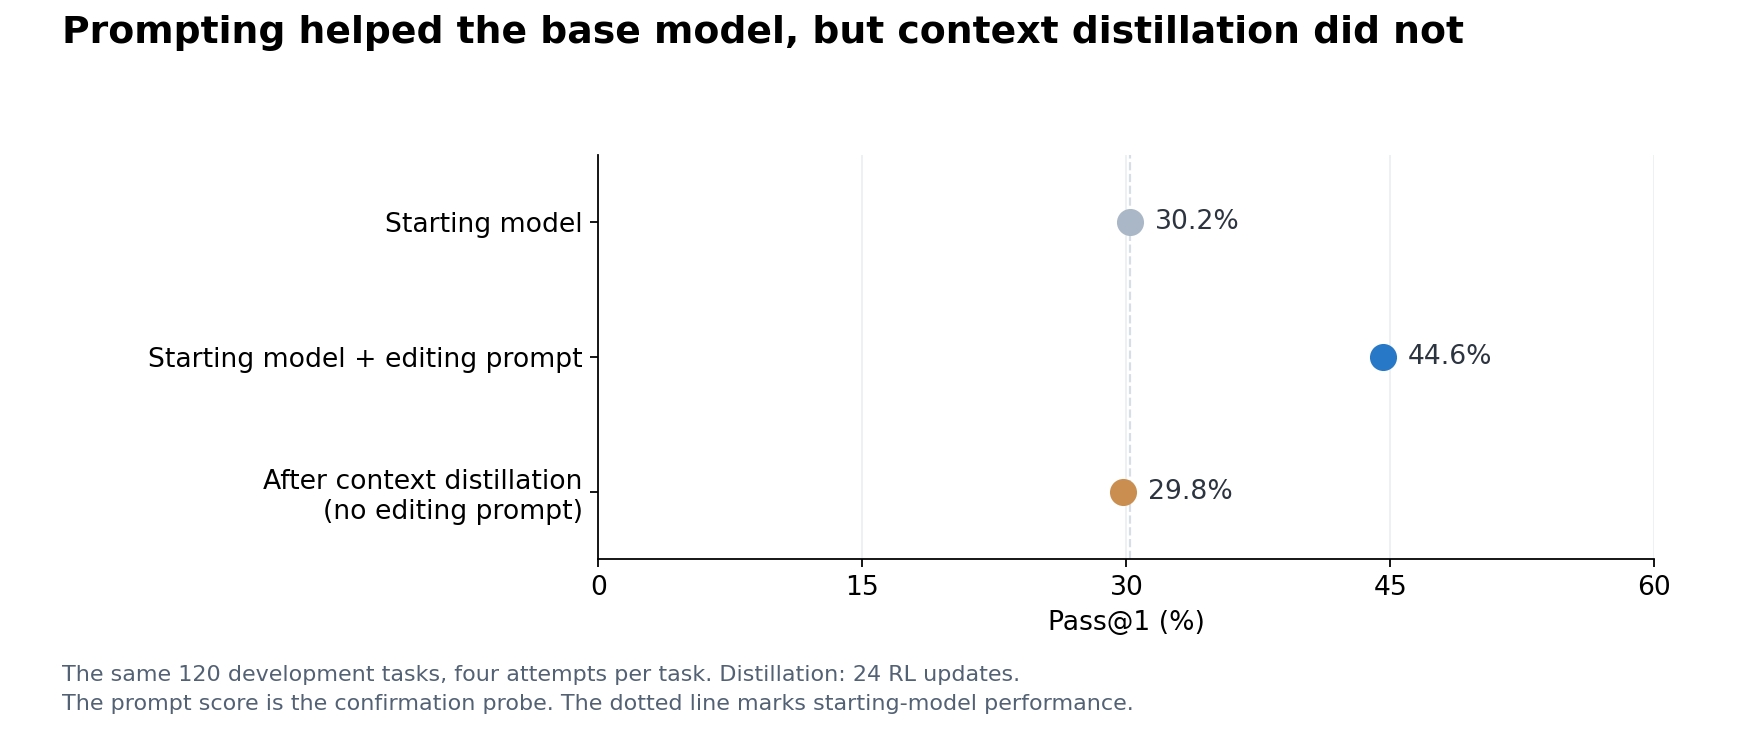
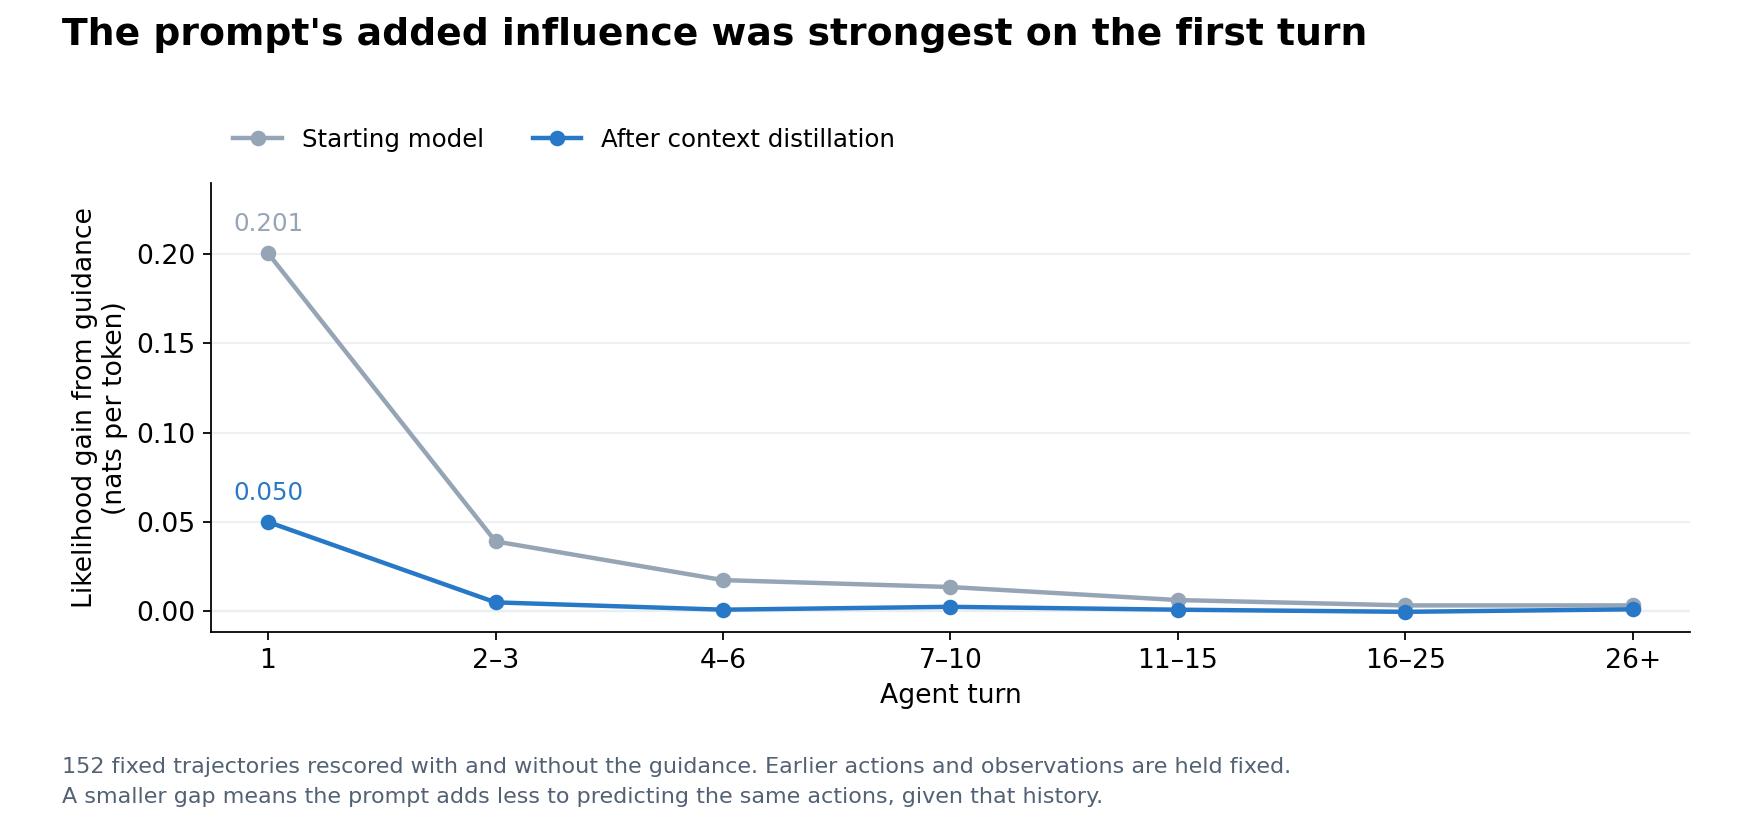
Focus the prompt experiment on turn-level guidance

diff --git a/_posts/2026-10-21-turning-snowball-into-a-coding-agent.md b/_posts/2026-10-21-turning-snowball-into-a-coding-agent.md
@@ -40,7 +40,7 @@ That result took several changes of approach. Snowball itself also changed durin
 <nav class="research-toc" aria-label="Article contents">
 <div class="research-toc-title">Contents</div>
 <ul>
-<li><strong><a href="#starting-with-reinforcement-learning">Starting with RL</a></strong><span class="toc-sub"><a href="#the-pre-rl-probe">Pre-RL probe</a> · <a href="#following-the-behavior-back-to-sft">SFT habits</a> · <a href="#diagnosing-entropy-collapse">Entropy collapse</a> · <a href="#fixing-the-training-stack">Stack fixes</a> · <a href="#what-rl-improved">Results</a> · <a href="#speeding-up-rollouts-without-retraining-the-draft">Speculative decoding</a> · <a href="#finding-useful-training-tasks">Training tasks</a> · <a href="#training-a-prompt-into-the-weights">Prompt distillation</a></span></li>
+<li><strong><a href="#starting-with-reinforcement-learning">Starting with RL</a></strong><span class="toc-sub"><a href="#the-pre-rl-probe">Pre-RL probe</a> · <a href="#following-the-behavior-back-to-sft">SFT habits</a> · <a href="#diagnosing-entropy-collapse">Entropy collapse</a> · <a href="#fixing-the-training-stack">Stack fixes</a> · <a href="#what-rl-improved">Results</a> · <a href="#speeding-up-rollouts-without-retraining-the-draft">Speculative decoding</a> · <a href="#training-a-prompt-into-the-weights">Prompt distillation</a></span></li>
 <li><strong><a href="#strengthening-the-starting-policy-with-sft">Strengthening the policy with SFT</a></strong><span class="toc-sub"><a href="#better-loss-worse-agent">The Kimi experiment</a> · <a href="#combining-sft-and-rl">SFT → RL</a></span></li>
 <li><strong><a href="#relay-sft">Relay SFT</a></strong><span class="toc-sub"><a href="#bringing-in-the-teacher">Motivation and recipe</a> · <a href="#testing-the-idea">Testing the idea</a></span></li>
 <li><strong><a href="#reflections">Reflections</a></strong></li>
@@ -181,33 +181,18 @@ I also checked whether the draft would need refreshing as RL changed Snowball. T
 Full reports: [Toolkit and timing](https://gist.github.com/lukedhlee/b161a78a29e2c42b08a157aaaea6438b), [Frozen draft during RL](https://gist.github.com/lukedhlee/bd14e461b13557a3a541e721fcda643e), [Initial pilot](https://gist.github.com/lukedhlee/f02dc181b7383e47908091b565cf8619).
 </aside>
 
-### Finding Useful Training Tasks
-
-GRPO needs differences in reward within a group of attempts. If every attempt fails, or every attempt passes, binary rewards provide no relative signal. A task can be difficult without being useful for the current model to train on.
-
-The pre-RL probe identified 1,003 tasks Snowball solved between one and seven times in eight attempts. This gave us a curriculum based on the model's actual capabilities. As the policy changed, the useful tasks could change too. An initially difficult task might become reliably solvable, while a previously inaccessible task might start producing occasional successes. That motivated refreshing the pool to 1,247 tasks.
-
-<figure class="research-figure">
-<a href="{{ '/assets/img/snowball/curriculum-refresh.png' | relative_url }}"><img src="{{ '/assets/img/snowball/curriculum-refresh.png' | relative_url }}" alt="A larger curriculum produced small gains whose confidence intervals included zero." width="1760" height="880" loading="lazy"></a>
-<figcaption>Adding tasks and continuing training produced a positive but unresolved result. Both ranges include zero.</figcaption>
-</figure>
-
-Another 24 updates improved the two held-out splits by 2.7 and 3.1 percentage points. That was encouraging, but inconclusive. Both uncertainty ranges included no improvement. Without a matched continuation on the original pool, the experiment could not distinguish the benefit of refreshing the curriculum from the benefit of additional training.
-
-<aside class="research-reports" markdown="1">
-[Full report](https://gist.github.com/lukedhlee/969b5bf852b9d1274ec980996232f7ba).
-</aside>
-
 ### Training a Prompt into the Weights
 
-I also tried training a useful prompt into the weights. A short edit-discipline prompt improved the base by 9–14 points on a development set. For context distillation, I kept the prompt during rollouts and removed it from the context used for the weight update. After 24 updates on 12 Jupiter nodes, the unprompted model scored 29.8%, against 30.2% for the base on the same 120-task panel. The prompted-versus-unprompted likelihood gap shrank 85%, but task success did not improve. Matching the prompted trajectories more closely was not enough.
+A short edit-discipline prompt improved the base by 9–14 points on a development set. I tried transferring that guidance into the weights by keeping it during rollouts and removing it from the context used for the weight update. Without the guidance, the trained model scored 29.8%, against 30.2% for the base. The prompted-versus-unprompted likelihood gap shrank 85%, but task success did not improve.
+
+The turn-by-turn analysis was more revealing. When the same trajectories were rescored with and without the guidance, the largest likelihood difference was on the first action. By turns four to six, that gap was already small even in the starting model. Earlier actions were held fixed, so the history could still carry forward the prompt's initial influence.
 
 <figure class="research-figure">
-<a href="{{ '/assets/img/snowball/prompt-distillation.png' | relative_url }}"><img src="{{ '/assets/img/snowball/prompt-distillation.png' | relative_url }}" alt="Editing guidance improved the starting model from 30.2% to 44.6%, but the context-distilled model scored 29.8% without that guidance." width="1760" height="736" loading="lazy"></a>
-<figcaption>The same 120 development tasks, four attempts per task. The editing prompt helped the starting model, but 24 context-distillation updates did not improve performance without the prompt.</figcaption>
+<a href="{{ '/assets/img/snowball/prompt-distillation.png' | relative_url }}"><img src="{{ '/assets/img/snowball/prompt-distillation.png' | relative_url }}" alt="The likelihood difference from retaining the editing guidance was largest on the first turn and much smaller on later turns, both before and after distillation." width="1760" height="832" loading="lazy"></a>
+<figcaption>The same 152 prompted trajectories, rescored with and without the guidance. The gap measures the prompt's additional influence on the likelihood of the same actions, with the earlier history held fixed.</figcaption>
 </figure>
 
-The broader direction is still worth exploring. [Fast-Slow Training (FST)](https://arxiv.org/abs/2605.12484) interleaves prompt optimization with weight updates, while [P²O](https://arxiv.org/pdf/2603.21877) combines prompt optimization with context distillation. Here I tested one fixed prompt and one distillation configuration, without prompt evolution or a teacher-KL loss. How to turn useful guidance in context into useful behavior in the weights remains an interesting question.
+That raises a question about when guidance is most useful. Later turns are where the agent needs to verify an edit, respond to a failed check, and decide whether the work is complete. One direction worth testing is to nudge the policy at those moments, with targeted reminders tied to what just happened. Combining prompt and weight optimization remains worth exploring, as in [Fast-Slow Training (FST)](https://arxiv.org/abs/2605.12484) and [P²O](https://arxiv.org/pdf/2603.21877). These experiments tested only one fixed initial prompt, leaving guidance across turns as an open direction.
 
 <aside class="research-reports" markdown="1">
 [Full report](https://gist.github.com/lukedhlee/edb2f69d38ed089f71f74ff711281807).
@@ -254,7 +239,9 @@ The next experiments started from Marin's newer [Grug Datakit 09-21](https://git
 
 Teacher-only SFT trains on histories generated by the teacher. At deployment, Snowball creates its own history: different commands, mistaken assumptions, invalid actions, and unfinished fixes. This mismatch is **exposure bias**. A demonstration of the teacher's clean solution may not show how to recover from the situations the student actually encounters.
 
-That motivated **Relay SFT**. Snowball starts the task, and a stronger teacher responds to its attempt. The teacher repairs invalid actions, continues when the context-budget trigger fires, or checks the work when Snowball claims completion. For these experiments the teacher was Qwen3.8-27B. During SFT, Snowball's turns remain as context and only the teacher's turns contribute to the loss.
+Trace analysis identified three major failure modes that were cheap to detect programmatically during online trajectory generation: invalid actions, exhausting the context budget, and premature completion. The harness could flag a rejected action, track context use, or intercept a completion claim. These became the intervention points for **Relay SFT**. A completion claim triggered verification, since it could also be correct.
+
+Snowball starts the task, and a stronger teacher intervenes at those points. The teacher repairs an invalid action, continues when the context-budget trigger fires, or checks the work when Snowball claims completion. For these experiments the teacher was Qwen3.8-27B. During SFT, Snowball's turns remain as context and only the teacher's turns contribute to the loss.
 
 <figure class="research-figure">
 <a href="{{ '/assets/img/snowball/relay-timeline.png' | relative_url }}"><img src="{{ '/assets/img/snowball/relay-timeline.png' | relative_url }}" alt="Teacher-only SFT trains on teacher-generated histories; Relay SFT includes student turns, local teacher repairs, and teacher continuations." width="2409" height="957" loading="lazy"></a>
